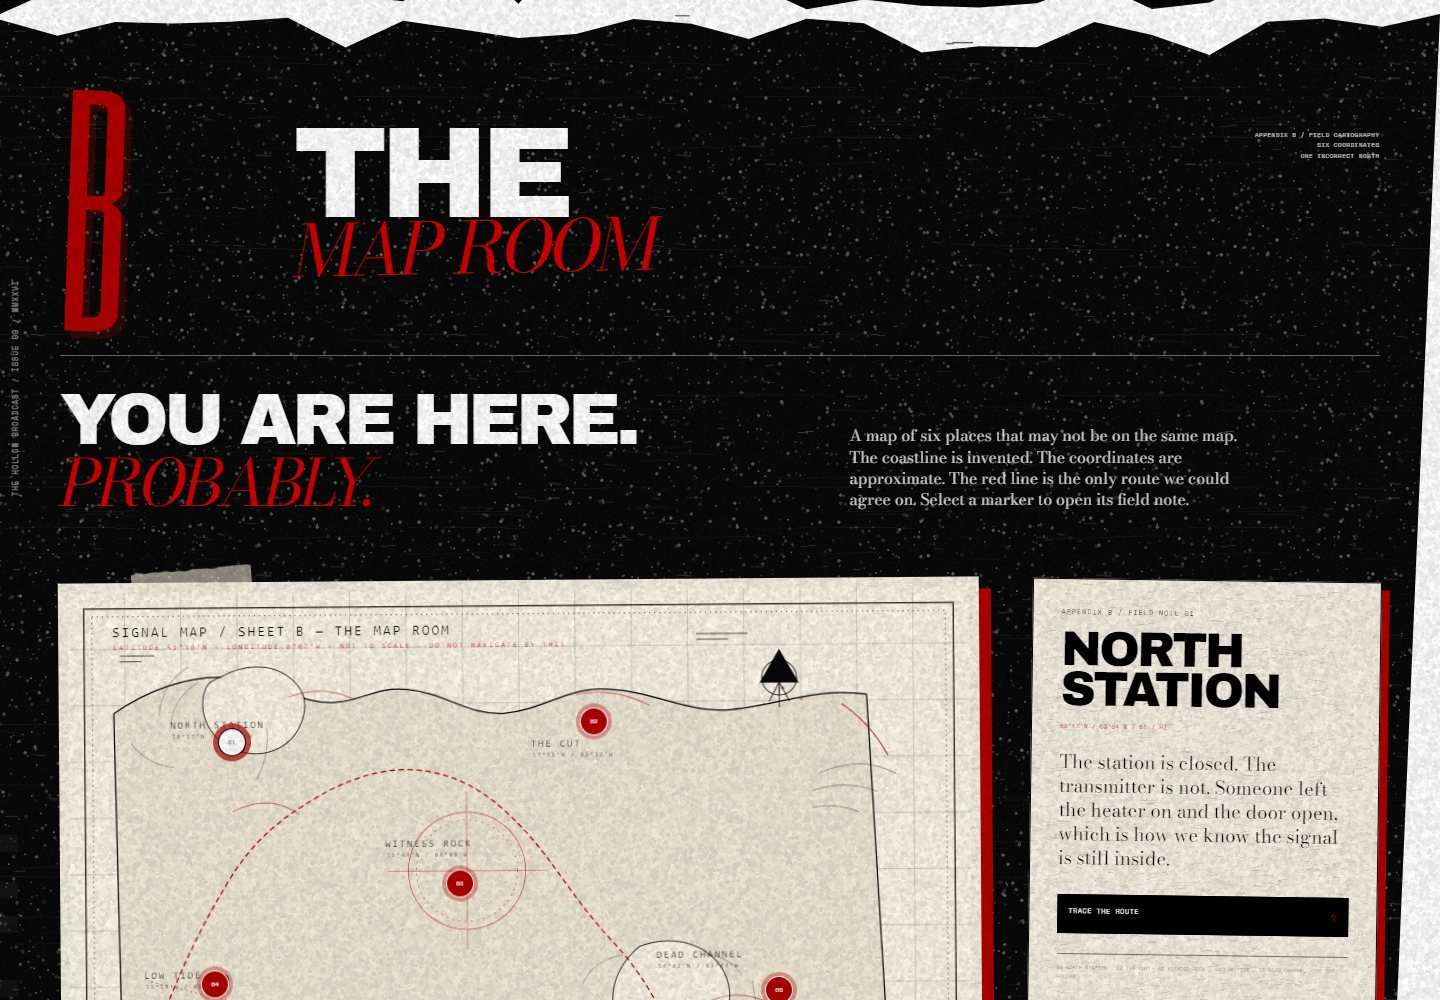
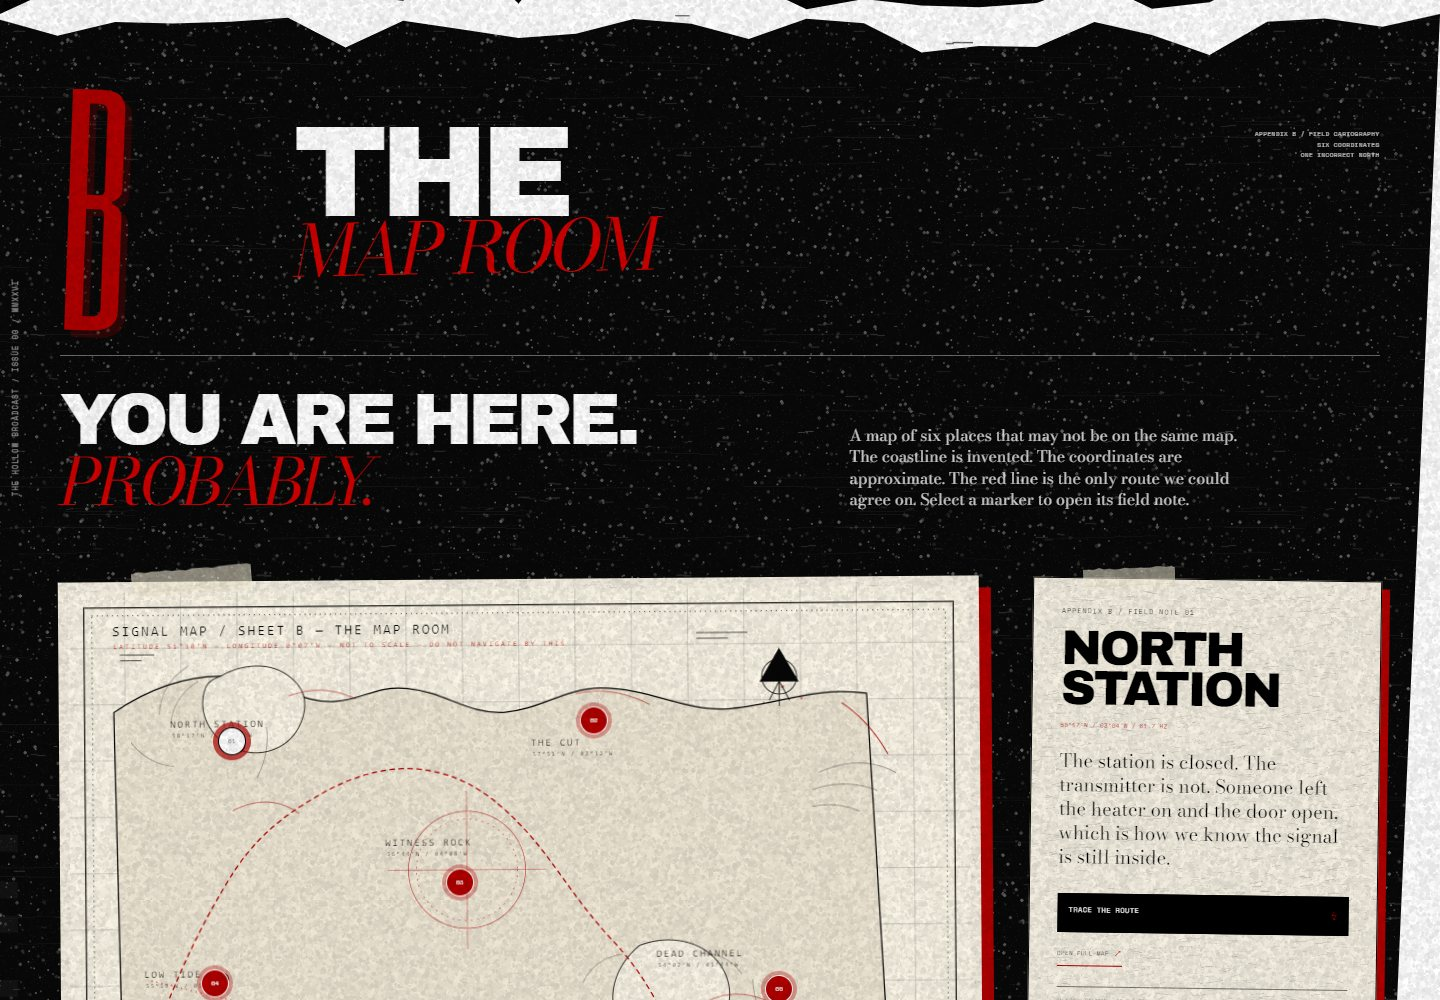
Refine relic composition and print details

diff --git a/the-hollow-broadcast/chaos.css b/the-hollow-broadcast/chaos.css
@@ -3522,6 +3522,37 @@ body {
   transform: rotate(1.1deg);
 }
 
+.cutup::before {
+  content: "";
+  position: absolute;
+  top: -13px;
+  left: 22px;
+  z-index: 3;
+  width: 100px;
+  height: 26px;
+  background: url("assets/paper/tape-01.svg") center / 100% 100% no-repeat;
+  opacity: 0.82;
+  transform: rotate(-4deg);
+  pointer-events: none;
+}
+
+.cutup__stamp {
+  position: absolute;
+  right: -12px;
+  bottom: 24px;
+  z-index: 3;
+  padding: 5px 8px;
+  border: 1px solid var(--red);
+  background: rgba(246, 241, 228, 0.72);
+  color: var(--red);
+  font-family: var(--mono);
+  font-size: 5px;
+  letter-spacing: 0.06em;
+  text-transform: uppercase;
+  transform: rotate(-7deg);
+  pointer-events: none;
+}
+
 .cutup__kicker {
   display: block;
   color: var(--red);
@@ -3883,6 +3914,22 @@ body {
 .relic:nth-child(8) { --rot: -1.4deg; }
 .relic:nth-child(9) { --rot: 0.6deg; }
 
+.relic:nth-child(3) {
+  width: 104%;
+  margin-left: -2%;
+  z-index: 2;
+}
+
+.relic:nth-child(5) {
+  width: 112%;
+  margin-left: -6%;
+  z-index: 4;
+}
+
+.relic:nth-child(5) .relic__figure {
+  box-shadow: 12px 12px 0 var(--red);
+}
+
 .relic:hover,
 .relic:focus-visible {
   transform: rotate(var(--rot, 0deg)) translateY(-7px);
@@ -4188,6 +4235,16 @@ body {
 }
 
 @media (max-width: 1000px) {
+  .relic:nth-child(3) {
+    width: 100%;
+    margin-left: 0;
+  }
+
+  .relic:nth-child(5) {
+    width: 106%;
+    margin-left: -3%;
+  }
+
   .relics__masthead {
     grid-template-columns: minmax(60px, 12vw) minmax(0, 1fr);
   }
@@ -4256,6 +4313,16 @@ body {
 
   .relic__ref {
     font-size: 4.5px;
+  }
+
+  .relic:nth-child(3),
+  .relic:nth-child(5) {
+    width: 100%;
+    margin-left: 0;
+  }
+
+  .cutup__stamp {
+    display: none;
   }
 
   .relic:nth-child(9) {
@@ -4565,6 +4632,20 @@ body {
   transform: rotate(0.8deg);
 }
 
+.map-room__panel::before {
+  content: "";
+  position: absolute;
+  top: -12px;
+  left: 14%;
+  z-index: 3;
+  width: 92px;
+  height: 24px;
+  background: url("assets/paper/tape-01.svg") center / 100% 100% no-repeat;
+  opacity: 0.84;
+  transform: rotate(-3deg);
+  pointer-events: none;
+}
+
 .map-room__panel-title {
   margin: 9px 0 0;
   font-family: var(--heavy);
@@ -4768,4 +4849,30 @@ body {
   .map-room__notice {
     margin-top: 38px;
   }
+}
+
+/* --------------------------------------------------------------------------
+   Typographic finishing
+   -------------------------------------------------------------------------- */
+
+.relics__title,
+.map-room__title,
+.relics__display,
+.map-room__display,
+.relic-dialog__body h2,
+.map-room__panel-title {
+  text-wrap: balance;
+}
+
+.relics__copy,
+.map-room__copy,
+.relics__notice,
+.map-room__notice,
+.relic-dialog__text {
+  text-wrap: pretty;
+}
+
+::selection {
+  background: var(--red);
+  color: var(--white);
 }

diff --git a/the-hollow-broadcast/index.html b/the-hollow-broadcast/index.html
@@ -504,6 +504,7 @@
           <span class="cutup__count" id="cutupCount" aria-hidden="true">CUT 000</span>
         </div>
         <p class="cutup__note">Assembled locally from fragments. Nothing is sent. Nothing is saved.</p>
+        <span class="cutup__stamp" aria-hidden="true">FIELD TOOL / 05</span>
       </aside>
     </section>
 
